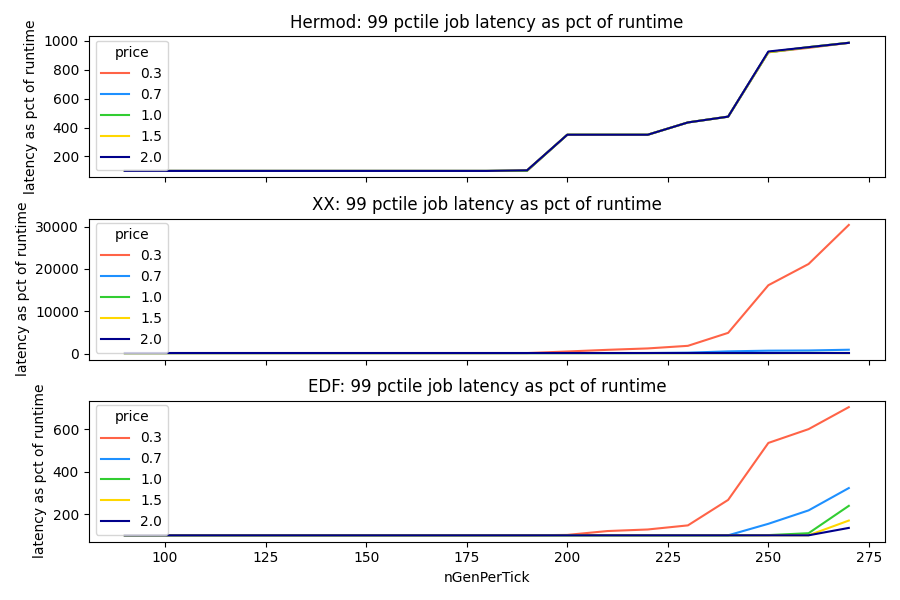
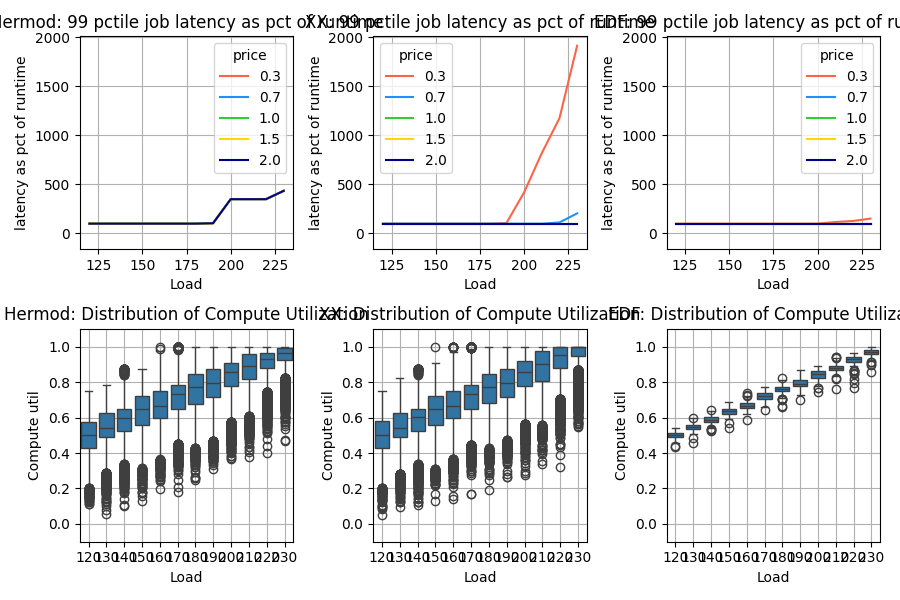
hermod xx edf graph updated graph with utilization

diff --git a/results/usage_plots.py b/results/usage_plots.py
@@ -20,7 +20,7 @@ actual_procs_done = pd.read_csv("procs_done.txt", index_col=None, names=["nGenPe
 hermod_usage_metrics = pd.read_csv("hermod_usage.txt", index_col=None, names=["nGenPerTick", "tick", "machineId", "ticksLeftOver", "memFree"])
 hermod_procs_done = pd.read_csv("hermod_procs_done.txt", index_col=None, names=["nGenPerTick", "price", "timePassed", "compDone"])
 
-edf_usage_metrics = pd.read_csv("edf_usage.txt", index_col=None, names=["nGenPerTick", "tick", "machineId", "ticksLeftOver", "memFree"])
+edf_usage_metrics = pd.read_csv("edf_usage.txt", index_col=None, names=["nGenPerTick", "tick", "ticksLeftOver", "memFree"])
 edf_procs_done = pd.read_csv("edf_procs_done.txt", index_col=None, names=["nGenPerTick", "price", "timePassed", "compDone"])
 
 # 1. Compute timeAsPercentage for both ideal and actual data
@@ -32,8 +32,8 @@ edf_procs_done["timeAsPercentage"] = (edf_procs_done["timePassed"] / edf_procs_d
 # # 2. Compute utilization for both ideal and actual data
 # ideal_usage_metrics["utilization"] = (numMachines * coresPerMachine - ideal_usage_metrics["ticksLeftOver"]) / (numMachines * coresPerMachine)
 actual_usage_metrics["utilization"] = (coresPerMachine - actual_usage_metrics["ticksLeftOver"]) / (coresPerMachine)
-# hermod_usage_metrics["utilization"] = (coresPerMachine - hermod_usage_metrics["ticksLeftOver"]) / (coresPerMachine)
-# edf_usage_metrics["utilization"] = (numMachines * coresPerMachine - edf_usage_metrics["ticksLeftOver"]) / (numMachines * coresPerMachine)
+hermod_usage_metrics["utilization"] = (coresPerMachine - hermod_usage_metrics["ticksLeftOver"]) / (coresPerMachine)
+edf_usage_metrics["utilization"] = (numMachines * coresPerMachine - edf_usage_metrics["ticksLeftOver"]) / (numMachines * coresPerMachine)
 
 # # 3. Compute memory utilization (1 - memFree / totalMemory)
 # ideal_usage_metrics["mem_utilization"] = 1 - (ideal_usage_metrics["memFree"] / (numMachines * totalMemoryPerMachine))
@@ -184,7 +184,7 @@ edf_usage_metrics['nGenPerTick'] = edf_usage_metrics['nGenPerTick'].astype(int)
 # hermod vs xx vs edf, latency
 # =================================================================================
 
-fig, ax = plt.subplots(3, 1, figsize=(9, 6), sharex=True)
+fig, ax = plt.subplots(2, 3, figsize=(9, 6))
 
 high_contrast_palette = ["#FF6347", "#1E90FF", "#32CD32", "#FFD700", "#00008B"]
 
@@ -201,19 +201,53 @@ edf_percentiles = edf_procs_done.groupby(['nGenPerTick', 'price']).agg(
 ).reset_index()
 
 
-sns.lineplot(data=hermod_percentiles, x='nGenPerTick', y='percentile_99', hue='price', palette=high_contrast_palette, ax=ax[0])
-ax[0].set_title("Hermod: 99 pctile job latency as pct of runtime")
-ax[0].set_ylabel("latency as pct of runtime")
+sns.lineplot(data=hermod_percentiles, x='nGenPerTick', y='percentile_99', hue='price', palette=high_contrast_palette, ax=ax[0, 0])
+ax[0, 0].set_title("Hermod: 99 pctile job latency as pct of runtime")
+ax[0, 0].set_xlabel("Load")
+ax[0, 0].set_ylabel("latency as pct of runtime")
+ax[0, 0].grid(True)
+
+sns.boxplot(data=hermod_usage_metrics, x="nGenPerTick", y="utilization", ax=ax[1, 0])
+ax[1, 0].set_title("Hermod: Distribution of Compute Utilization")
+ax[1, 0].set_xlabel("Load")
+ax[1, 0].set_ylabel("Compute util")
+ax[1, 0].grid(True)
+
+sns.lineplot(data=mine_percentiles, x='nGenPerTick', y='percentile_99', hue='price', palette=high_contrast_palette, ax=ax[0, 1])
+ax[0, 1].set_title("XX: 99 pctile job latency as pct of runtime")
+ax[0, 1].set_ylabel("latency as pct of runtime")
+ax[0, 1].set_xlabel("Load")
+ax[0, 1].grid(True)
+
+sns.boxplot(data=actual_usage_metrics, x="nGenPerTick", y="utilization", ax=ax[1, 1])
+ax[1, 1].set_title("XX: Distribution of Compute Utilization")
+ax[1, 1].set_xlabel("Load")
+ax[1, 1].set_ylabel("Compute util")
+ax[1, 1].grid(True)
+
+sns.lineplot(data=edf_percentiles, x='nGenPerTick', y='percentile_99', hue='price', palette=high_contrast_palette, ax=ax[0, 2])
+ax[0, 2].set_title("EDF: 99 pctile job latency as pct of runtime")
+ax[0, 2].set_ylabel("latency as pct of runtime")
+ax[0, 2].set_xlabel("Load")
+ax[0, 2].grid(True)
+
+sns.boxplot(data=edf_usage_metrics, x="nGenPerTick", y="utilization", ax=ax[1, 2])
+ax[1, 2].set_title("EDF: Distribution of Compute Utilization")
+ax[1, 2].set_xlabel("Load")
+ax[1, 2].set_ylabel("Compute util")
+ax[1, 2].grid(True)
+
+y_max_0 = mine_percentiles["percentile_99"].max() * 1.05
+y_min_0 = -0.08 * y_max_0
 
 
-sns.lineplot(data=mine_percentiles, x='nGenPerTick', y='percentile_99', hue='price', palette=high_contrast_palette, ax=ax[1])
-ax[1].set_title("XX: 99 pctile job latency as pct of runtime")
-ax[1].set_ylabel("latency as pct of runtime")
+ax[0, 0].set_ylim(y_min_0, y_max_0)
+ax[0, 1].set_ylim(y_min_0, y_max_0)
+ax[0, 2].set_ylim(y_min_0, y_max_0)
 
-sns.lineplot(data=edf_percentiles, x='nGenPerTick', y='percentile_99', hue='price', palette=high_contrast_palette, ax=ax[2])
-ax[2].set_title("EDF: 99 pctile job latency as pct of runtime")
-ax[2].set_ylabel("latency as pct of runtime")
-
+ax[1, 0].set_ylim(-0.1, 1.1)
+ax[1, 1].set_ylim(-0.1, 1.1)
+ax[1, 2].set_ylim(-0.1, 1.1)
 
 
 plt.tight_layout()

diff --git a/run_test.go b/run_test.go
@@ -13,8 +13,8 @@ const (
 	N_CORES_PER_MACHINE = 8
 
 	// this is overall
-	N_PROCS_GEN_PER_TICK_START = 90
-	N_PROCS_GEN_PER_TICK_END   = 270
+	N_PROCS_GEN_PER_TICK_START = 120
+	N_PROCS_GEN_PER_TICK_END   = 230
 )
 
 func TestRunWorld(t *testing.T) {
